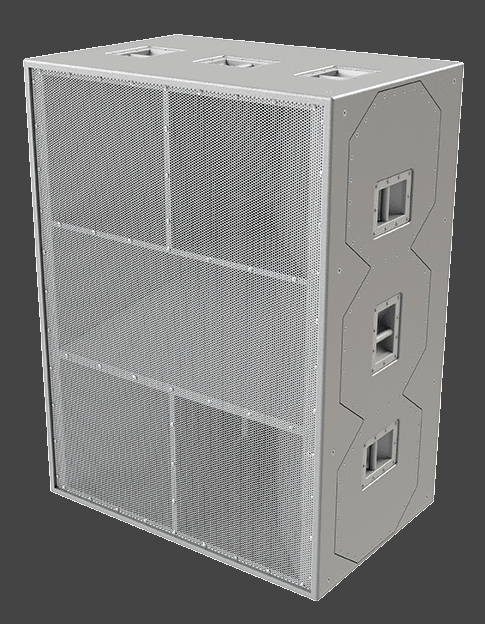
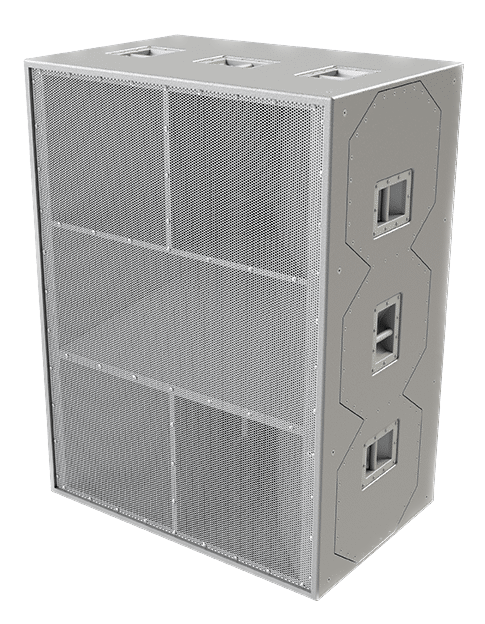
remove background on some pictures

diff --git a/datas/metadata.py b/datas/metadata.py
@@ -257,6 +257,9 @@ speakers_info = {
                 "quality": "high",
                 "review_published": "20221110",
                 "notes": "measured at 2 meters with broadband pinknoise. This is for 6 RR12 in a vertical orientation.",
+                "reviews": {
+                    "asr": "https://www.audiosciencereview.com/forum/index.php?threads/spinorama-of-alcons-audio-rr12-with-beamforming-examples.39117/", 
+                },
             },
             "vendor-v1x": {
                 "origin": "Vendors-Alcons Audio",
@@ -6042,7 +6045,7 @@ speakers_info = {
                 "origin": "Vendors-JBL",
                 "format": "splHVtxt",
                 "quality": "high",
-                "review": "",
+                "review": "https://www.audiosciencereview.com/forum/index.php?threads/spinorama-for-the-brand-new-jbl-prx900-serie.38843/",
                 "review_published": "20221103",
             },
         },
